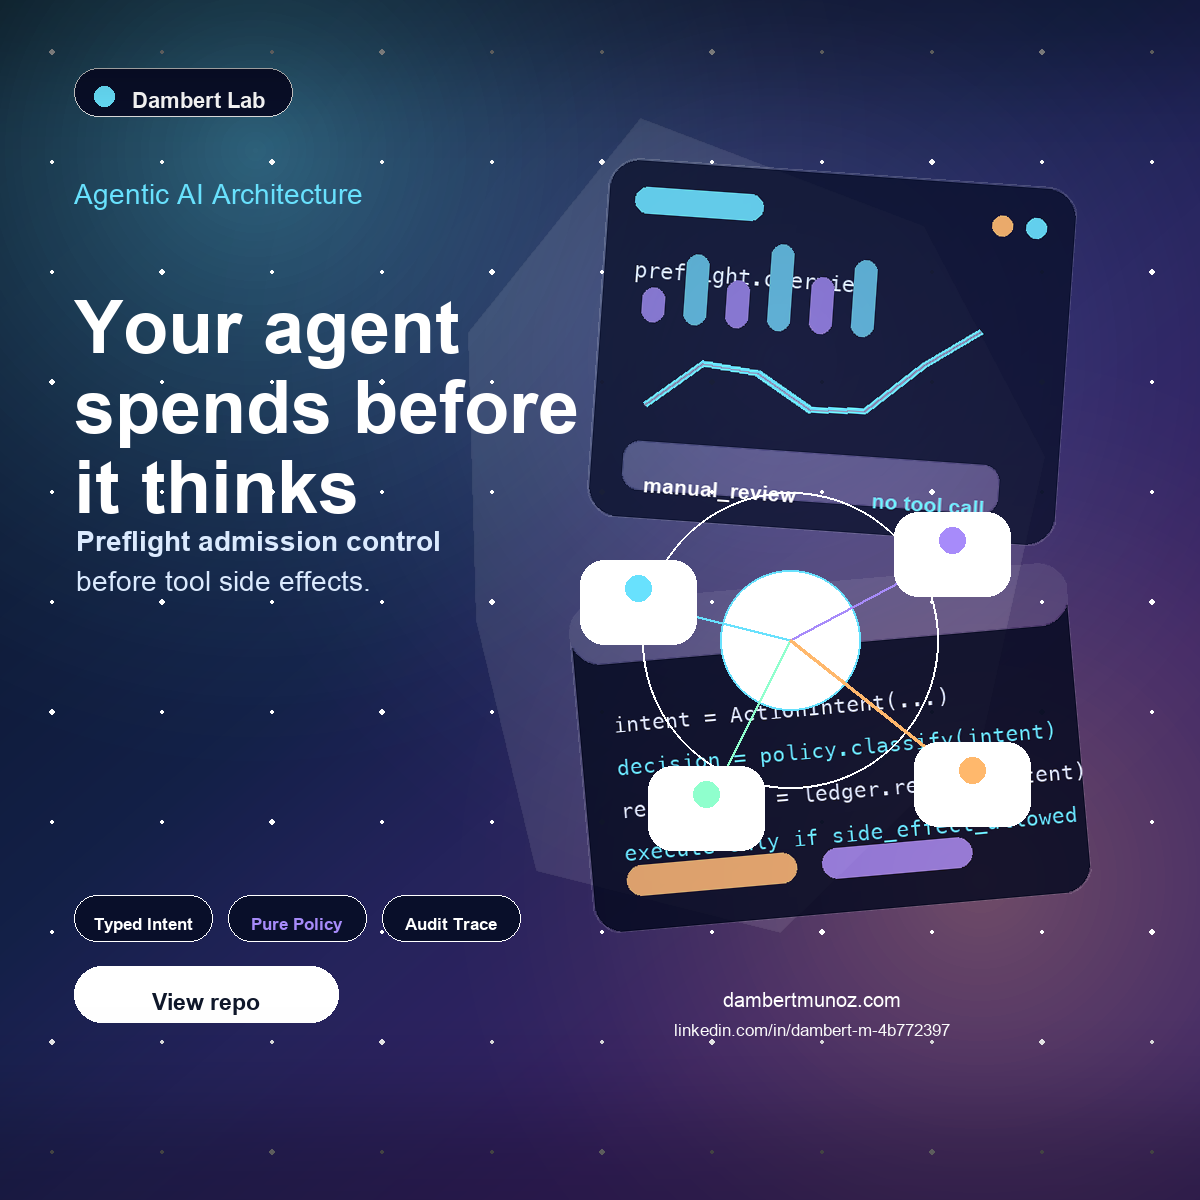
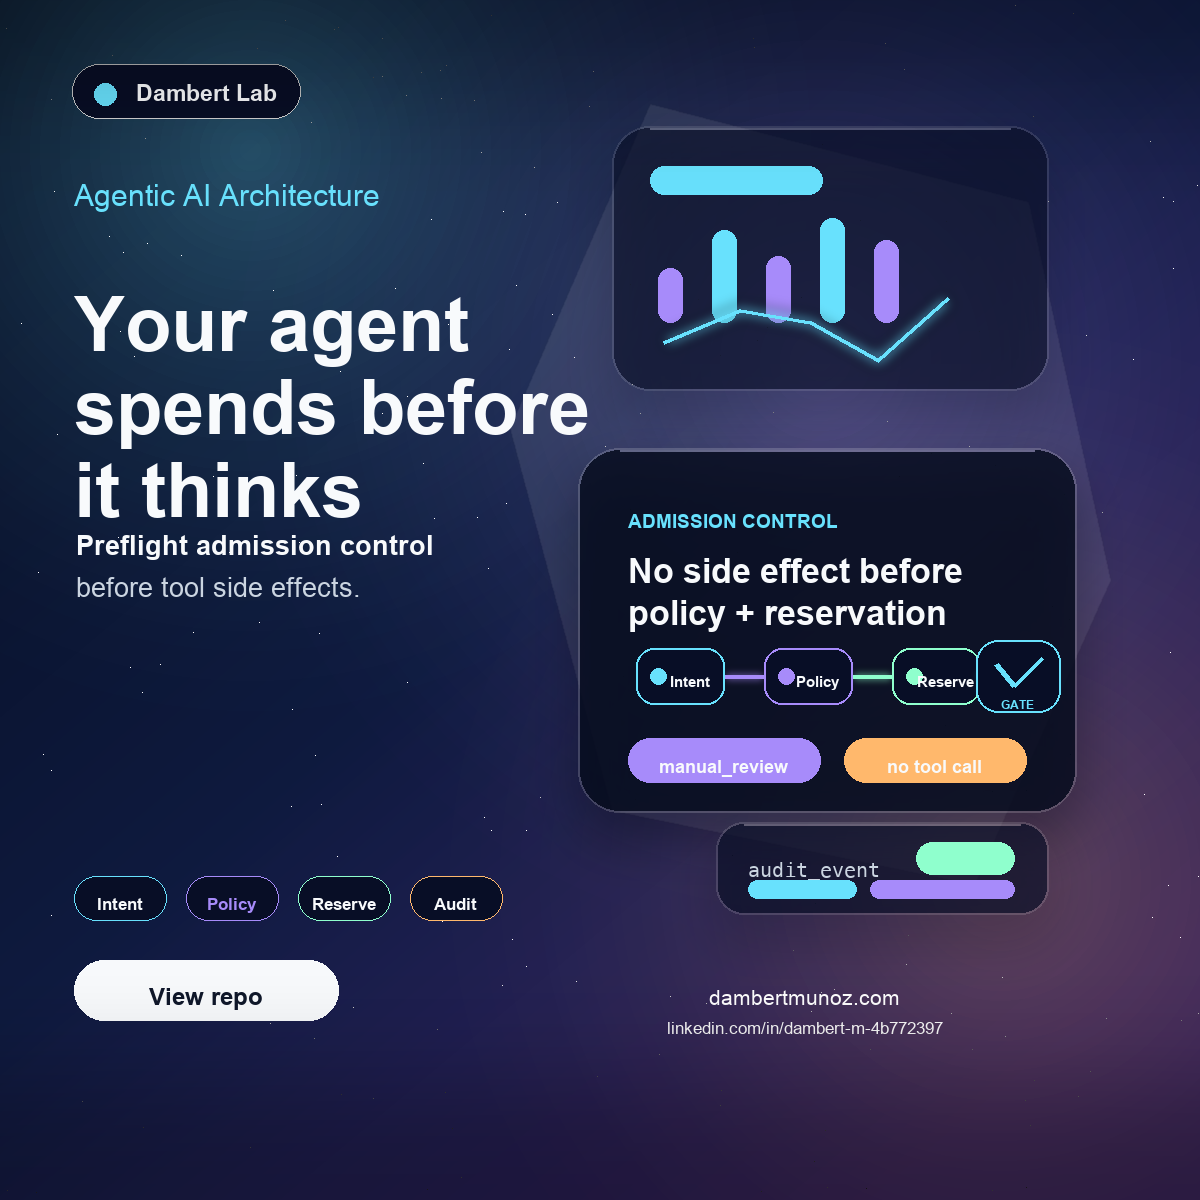
docs: refine premium social card composition

Changed region(s): [[0.0617, 0.0925, 0.925, 0.8633], [0.0617, 0.0308, 0.2467, 0.0925], [0.0617, 0.1542, 0.3083, 0.185]]

diff --git a/scripts/render_social_card.py b/scripts/render_social_card.py
@@ -9,235 +9,208 @@ SIZE = 1200
 OUT = Path("assets")
 OUT.mkdir(exist_ok=True)
 
-BG0 = (7, 17, 31)
-BG1 = (23, 37, 84)
-BG2 = (66, 32, 107)
-WHITE = (255, 255, 255)
-MUTED = (219, 234, 254)
+NAVY = (6, 12, 30)
+INDIGO = (18, 32, 76)
+PLUM = (58, 30, 92)
 CYAN = (104, 225, 253)
 VIOLET = (167, 139, 250)
+AMBER = (255, 184, 108)
 MINT = (143, 255, 205)
-WARM = (255, 184, 108)
-INK = (5, 10, 31)
-PANEL = (9, 15, 42)
+WHITE = (248, 250, 252)
+MUTED = (203, 213, 225)
+PANEL = (8, 14, 38)
 
 
 def font(size: int, bold: bool = False, mono: bool = False) -> ImageFont.FreeTypeFont:
     candidates = []
     if mono:
-        candidates += [
-            "/System/Library/Fonts/Menlo.ttc",
-            "/System/Library/Fonts/Supplemental/Courier New.ttf",
-        ]
+        candidates += ["/System/Library/Fonts/Menlo.ttc", "/System/Library/Fonts/Supplemental/Courier New.ttf"]
     if bold:
-        candidates += [
-            "/System/Library/Fonts/Supplemental/Arial Bold.ttf",
-            "/System/Library/Fonts/Helvetica.ttc",
-        ]
-    candidates += [
-        "/System/Library/Fonts/Supplemental/Arial.ttf",
-        "/System/Library/Fonts/Helvetica.ttc",
-    ]
+        candidates += ["/System/Library/Fonts/Supplemental/Arial Bold.ttf", "/System/Library/Fonts/Helvetica.ttc"]
+    candidates += ["/System/Library/Fonts/Supplemental/Arial.ttf", "/System/Library/Fonts/Helvetica.ttc"]
     for candidate in candidates:
         try:
             return ImageFont.truetype(candidate, size)
         except Exception:
-            continue
+            pass
     return ImageFont.load_default()
 
 
-def lerp(a: int, b: int, t: float) -> int:
-    return int(a + (b - a) * t)
+def text(draw: ImageDraw.ImageDraw, xy, value: str, size: int, *, fill=WHITE, bold=False, mono=False, anchor=None):
+    draw.text(xy, value, font=font(size, bold=bold, mono=mono), fill=fill, anchor=anchor)
 
 
-def gradient_bg() -> Image.Image:
-    img = Image.new("RGB", (SIZE, SIZE), BG0)
+def rounded(draw: ImageDraw.ImageDraw, box, radius: int, fill, outline=None, width: int = 1):
+    draw.rounded_rectangle(box, radius=radius, fill=fill, outline=outline, width=width)
+
+
+def make_background() -> Image.Image:
+    img = Image.new("RGB", (SIZE, SIZE), NAVY)
     px = img.load()
     for y in range(SIZE):
         for x in range(SIZE):
-            tx = x / SIZE
-            ty = y / SIZE
-            t = min(1, max(0, (tx * 0.62 + ty * 0.72)))
-            mid = tuple(lerp(BG0[i], BG1[i], min(1, t * 1.35)) for i in range(3))
-            if t > 0.56:
-                u = (t - 0.56) / 0.44
-                mid = tuple(lerp(mid[i], BG2[i], u * 0.75) for i in range(3))
-            px[x, y] = mid
-    return img
+            nx, ny = x / SIZE, y / SIZE
+            t = min(1.0, nx * 0.52 + ny * 0.62)
+            base = tuple(int(NAVY[i] + (INDIGO[i] - NAVY[i]) * min(1, t * 1.35)) for i in range(3))
+            if t > 0.52:
+                u = (t - 0.52) / 0.48
+                base = tuple(int(base[i] + (PLUM[i] - base[i]) * u * 0.82) for i in range(3))
+            px[x, y] = base
+    return img.convert("RGBA")
 
 
-def add_radial_glow(base: Image.Image, center: tuple[int, int], radius: int, color: tuple[int, int, int], alpha: int) -> None:
-    overlay = Image.new("RGBA", base.size, (0, 0, 0, 0))
-    d = ImageDraw.Draw(overlay)
-    cx, cy = center
-    for r in range(radius, 0, -8):
-        a = int(alpha * (1 - r / radius) ** 1.6)
+def radial_glow(base: Image.Image, cx: int, cy: int, radius: int, color, alpha: int):
+    layer = Image.new("RGBA", base.size, (0, 0, 0, 0))
+    d = ImageDraw.Draw(layer)
+    for r in range(radius, 0, -10):
+        a = int(alpha * (1 - r / radius) ** 1.8)
         d.ellipse((cx - r, cy - r, cx + r, cy + r), fill=(*color, a))
-    base.alpha_composite(overlay)
+    base.alpha_composite(layer)
 
 
-def rounded(d: ImageDraw.ImageDraw, box, radius, fill, outline=None, width=1):
-    d.rounded_rectangle(box, radius=radius, fill=fill, outline=outline, width=width)
+def shadowed_panel(base: Image.Image, box, radius: int = 34, fill=(8, 14, 38, 192), outline=(255, 255, 255, 42), shadow_alpha=85):
+    x1, y1, x2, y2 = box
+    shadow = Image.new("RGBA", base.size, (0, 0, 0, 0))
+    sd = ImageDraw.Draw(shadow)
+    sd.rounded_rectangle((x1, y1 + 26, x2, y2 + 26), radius=radius, fill=(0, 6, 22, shadow_alpha))
+    shadow = shadow.filter(ImageFilter.GaussianBlur(24))
+    base.alpha_composite(shadow)
 
-
-def text(d: ImageDraw.ImageDraw, xy, s, size, fill=WHITE, bold=False, mono=False, anchor=None):
-    d.text(xy, s, font=font(size, bold=bold, mono=mono), fill=fill, anchor=anchor)
-
-
-def draw_glass_card(base: Image.Image, box, radius=34, fill=(9, 15, 42, 168), outline=(255, 255, 255, 38), shadow=True):
-    if shadow:
-        shadow_layer = Image.new("RGBA", base.size, (0, 0, 0, 0))
-        sd = ImageDraw.Draw(shadow_layer)
-        sx1, sy1, sx2, sy2 = box
-        sd.rounded_rectangle((sx1, sy1 + 24, sx2, sy2 + 24), radius=radius, fill=(0, 8, 32, 92))
-        shadow_layer = shadow_layer.filter(ImageFilter.GaussianBlur(24))
-        base.alpha_composite(shadow_layer)
     layer = Image.new("RGBA", base.size, (0, 0, 0, 0))
     d = ImageDraw.Draw(layer)
     d.rounded_rectangle(box, radius=radius, fill=fill, outline=outline, width=2)
-    x1, y1, x2, _ = box
-    d.line((x1 + radius, y1 + 1, x2 - radius, y1 + 1), fill=(255, 255, 255, 46), width=2)
+    d.line((x1 + radius, y1 + 2, x2 - radius, y1 + 2), fill=(255, 255, 255, 54), width=2)
     base.alpha_composite(layer)
 
 
-def draw_blob(base: Image.Image) -> None:
-    layer = Image.new("RGBA", base.size, (0, 0, 0, 0))
-    d = ImageDraw.Draw(layer)
-    points = [
-        (640, 118), (923, 226), (1044, 456), (982, 735),
-        (780, 932), (536, 870), (476, 620), (468, 332),
-    ]
-    d.polygon(points, fill=(255, 255, 255, 24), outline=(255, 255, 255, 32))
-    layer = layer.filter(ImageFilter.GaussianBlur(0.6))
-    base.alpha_composite(layer)
-
-
-def draw_dotted_grid(base: Image.Image) -> None:
+def draw_noise_and_grid(base: Image.Image):
     d = ImageDraw.Draw(base)
-    random.seed(9)
-    for row in range(11):
-        for col in range(11):
-            x = 52 + col * 110
-            y = 52 + row * 110
-            r = 2.4 if (row + col) % 3 == 0 else 1.3
-            a = 42 if (row + col) % 3 == 0 else 26
-            d.ellipse((x - r, y - r, x + r, y + r), fill=(255, 255, 255, a))
+    random.seed(21)
+    # Premium micro texture only. No visible white grid: it made the card feel cheap.
+    for _ in range(220):
+        x = random.randrange(0, SIZE)
+        y = random.randrange(0, SIZE)
+        a = random.randrange(8, 24)
+        d.point((x, y), fill=(255, 255, 255, a))
+    # No visible grid. Only sparse micro speckles for depth.
 
 
-def draw_dashboard(base: Image.Image, x: int, y: int, rotate: float = -4) -> None:
-    card = Image.new("RGBA", (470, 360), (0, 0, 0, 0))
-    d = ImageDraw.Draw(card)
-    d.rounded_rectangle((0, 0, 470, 360), radius=32, fill=(9, 15, 42, 198), outline=(255, 255, 255, 42), width=2)
-    d.rounded_rectangle((28, 28, 156, 54), radius=13, fill=(*CYAN, 218))
-    d.ellipse((386, 32, 406, 52), fill=(*WARM, 230))
-    d.ellipse((420, 32, 440, 52), fill=(*CYAN, 230))
-    text(d, (32, 98), "preflight.overview", 22, fill=(219, 234, 254), mono=True)
-    bars = [0.35, 0.72, 0.48, 0.88, 0.58, 0.78]
-    for i, h in enumerate(bars):
-        bx = 42 + i * 42
-        bh = int(98 * h)
-        bar_color = CYAN if i % 2 else VIOLET
-        d.rounded_rectangle((bx, 162 - bh, bx + 22, 162), radius=11, fill=(*bar_color, 165))
-    pts = []
-    for i in range(7):
-        px = 52 + i * 55
-        py = 245 - math.sin(i * 1.3) * 36 - i * 10
-        pts.append((px, py))
-    d.line(pts, fill=CYAN, width=7, joint="curve")
-    d.line(pts, fill=(255, 255, 255, 100), width=2)
-    d.rounded_rectangle((34, 282, 410, 330), radius=16, fill=(255, 255, 255, 20))
-    text(d, (56, 313), "manual_review", 21, fill=WHITE, bold=True)
-    text(d, (285, 313), "no tool call", 21, fill=CYAN, bold=True)
-    card = card.rotate(rotate, resample=Image.Resampling.BICUBIC, expand=True)
-    base.alpha_composite(card, (x, y))
-
-
-def draw_code_card(base: Image.Image, x: int, y: int, rotate: float = 5) -> None:
-    card = Image.new("RGBA", (500, 332), (0, 0, 0, 0))
-    d = ImageDraw.Draw(card)
-    d.rounded_rectangle((0, 0, 500, 332), radius=30, fill=(5, 10, 31, 210), outline=(255, 255, 255, 38), width=2)
-    d.rounded_rectangle((0, 0, 500, 62), radius=30, fill=(255, 255, 255, 20))
-    for i, c in enumerate([(255, 123, 123), (255, 209, 102), (124, 247, 199)]):
-        d.ellipse((36 + i * 28, 24, 52 + i * 28, 40), fill=c)
-    lines = [
-        "intent = ActionIntent(...) ",
-        "decision = policy.classify(intent)",
-        "reservation = ledger.reserve(intent)",
-        "execute only if side_effect_allowed",
-    ]
-    for i, line in enumerate(lines):
-        text(d, (36, 112 + i * 43), line, 21, fill=CYAN if i in (1, 3) else (224, 231, 255), mono=True)
-    d.rounded_rectangle((36, 266, 206, 296), radius=15, fill=(*WARM, 205))
-    d.rounded_rectangle((232, 266, 382, 296), radius=15, fill=(*VIOLET, 190))
-    card = card.rotate(rotate, resample=Image.Resampling.BICUBIC, expand=True)
-    base.alpha_composite(card, (x, y))
-
-
-def draw_orbit(base: Image.Image, cx: int, cy: int) -> None:
+def draw_left_copy(base: Image.Image):
     d = ImageDraw.Draw(base)
-    d.ellipse((cx - 148, cy - 148, cx + 148, cy + 148), outline=(255, 255, 255, 40), width=2)
-    d.ellipse((cx - 70, cy - 70, cx + 70, cy + 70), fill=(255, 255, 255, 20), outline=(*CYAN, 130), width=2)
-    text(d, (cx, cy + 9), "GATE", 28, fill=WHITE, bold=True, anchor="mm")
-    labels = [("Intent", -210, -80, CYAN), ("Policy", 104, -128, VIOLET), ("Reserve", -142, 126, MINT), ("Audit", 124, 102, WARM)]
-    for label, dx, dy, color in labels:
-        x = cx + dx
-        y = cy + dy
-        d.line((cx, cy, x + 58, y + 42), fill=(*color, 90), width=3)
-        d.rounded_rectangle((x, y, x + 116, y + 84), radius=24, fill=(255, 255, 255, 28), outline=(255, 255, 255, 48), width=1)
-        d.ellipse((x + 45, y + 15, x + 71, y + 41), fill=(*color, 220))
-        text(d, (x + 58, y + 63), label, 19, fill=WHITE, bold=True, anchor="mm")
+    rounded(d, (72, 64, 300, 118), 27, (8, 14, 38, 176), (255, 255, 255, 58), 1)
+    d.ellipse((94, 83, 116, 105), fill=CYAN)
+    text(d, (136, 80), "Dambert Lab", 23, bold=True)
+
+    text(d, (74, 178), "Agentic AI Architecture", 30, fill=CYAN)
+    text(d, (74, 282), "Your agent", 76, bold=True)
+    text(d, (74, 365), "spends before", 76, bold=True)
+    text(d, (74, 448), "it thinks", 76, bold=True)
+
+    text(d, (76, 530), "Preflight admission control", 27, fill=WHITE, bold=True)
+    text(d, (76, 572), "before tool side effects.", 27, fill=MUTED)
+
+    # Premium chips without the previous white-circle look.
+    chips = [("Intent", CYAN), ("Policy", VIOLET), ("Reserve", MINT), ("Audit", AMBER)]
+    for i, (label, color) in enumerate(chips):
+        x = 74 + i * 112
+        rounded(d, (x, 876, x + 92, 920), 22, (8, 14, 38, 166), (*color, 136), 1)
+        text(d, (x + 46, 904), label, 17, fill=WHITE if i != 1 else color, bold=True, anchor="mm")
+
+    rounded(d, (74, 960, 338, 1020), 30, WHITE, None, 1)
+    text(d, (206, 997), "View repo", 24, fill=(15, 23, 42), bold=True, anchor="mm")
+    text(d, (805, 997), "dambertmunoz.com", 21, fill=(255, 255, 255, 186), anchor="mm")
+    text(d, (805, 1028), "linkedin.com/in/dambert-m-4b772397", 17, fill=(255, 255, 255, 142), anchor="mm")
 
 
-def draw_stat_pills(base: Image.Image) -> None:
+def line_glow(base: Image.Image, points, color, width=5, glow=16):
+    glow_layer = Image.new("RGBA", base.size, (0, 0, 0, 0))
+    gd = ImageDraw.Draw(glow_layer)
+    gd.line(points, fill=(*color, 120), width=width + glow, joint="curve")
+    glow_layer = glow_layer.filter(ImageFilter.GaussianBlur(glow // 2))
+    base.alpha_composite(glow_layer)
     d = ImageDraw.Draw(base)
-    stats = [("Typed Intent", CYAN), ("Pure Policy", VIOLET), ("Audit Trace", MINT)]
-    for i, (label, color) in enumerate(stats):
-        x = 74 + i * 154
-        d.rounded_rectangle((x, 895, x + 138, 941), radius=23, fill=(9, 15, 42, 156), outline=(255, 255, 255, 46), width=1)
-        text(d, (x + 69, 924), label, 17, fill=color if i == 1 else WHITE, bold=True, anchor="mm")
+    d.line(points, fill=(*color, 220), width=width, joint="curve")
 
 
-def draw_title(base: Image.Image) -> None:
+def draw_right_art(base: Image.Image):
     d = ImageDraw.Draw(base)
-    d.rounded_rectangle((74, 68, 292, 116), radius=24, fill=(9, 15, 42, 150), outline=(255, 255, 255, 56), width=1)
-    d.ellipse((94, 86, 114, 106), fill=CYAN)
-    text(d, (132, 88), "Dambert Lab", 22, fill=WHITE, bold=True)
-    text(d, (74, 178), "Agentic AI Architecture", 28, fill=CYAN, bold=False)
-    text(d, (74, 286), "Your agent", 74, fill=WHITE, bold=True)
-    text(d, (74, 366), "spends before", 74, fill=WHITE, bold=True)
-    text(d, (74, 446), "it thinks", 74, fill=WHITE, bold=True)
-    text(d, (76, 525), "Preflight admission control", 28, fill=MUTED, bold=True)
-    text(d, (76, 565), "before tool side effects.", 28, fill=MUTED)
-    d.rounded_rectangle((74, 966, 338, 1022), radius=28, fill=WHITE)
-    text(d, (206, 1002), "View repo", 23, fill=(15, 23, 42), bold=True, anchor="mm")
-    text(d, (812, 1000), "dambertmunoz.com", 20, fill=(255, 255, 255, 180), anchor="mm")
-    text(d, (812, 1030), "linkedin.com/in/dambert-m-4b772397", 17, fill=(255, 255, 255, 135), anchor="mm")
+
+    # Abstract brand blob, toned down.
+    blob = Image.new("RGBA", base.size, (0, 0, 0, 0))
+    bd = ImageDraw.Draw(blob)
+    bd.polygon([(650, 104), (1028, 202), (1110, 580), (974, 884), (612, 810), (510, 428)], fill=(255, 255, 255, 22), outline=(255, 255, 255, 30))
+    blob = blob.filter(ImageFilter.GaussianBlur(0.8))
+    base.alpha_composite(blob)
+
+    # Back card.
+    shadowed_panel(base, (612, 126, 1048, 390), radius=38, fill=(8, 14, 38, 158), outline=(255, 255, 255, 28), shadow_alpha=50)
+    rounded(d, (650, 166, 822, 194), 14, (*CYAN, 220))
+    for i, h in enumerate([54, 92, 66, 104, 82]):
+        x = 658 + i * 54
+        rounded(d, (x, 322 - h, x + 24, 322), 12, CYAN if i % 2 else VIOLET, None, 1)
+    line_glow(base, [(664, 342), (740, 310), (810, 322), (878, 360), (948, 298)], CYAN, width=4, glow=12)
+
+    # Main gate card, no white orbit/circle connectors.
+    shadowed_panel(base, (578, 448, 1076, 812), radius=42, fill=(6, 12, 30, 214), outline=(255, 255, 255, 44), shadow_alpha=92)
+    text(d, (628, 510), "ADMISSION CONTROL", 19, fill=CYAN, bold=True)
+    text(d, (628, 552), "No side effect before", 34, fill=WHITE, bold=True)
+    text(d, (628, 594), "policy + reservation", 34, fill=WHITE, bold=True)
+
+    # Clean rail.
+    rail_y = 676
+    start_x = 636
+    steps = [("Intent", CYAN), ("Policy", VIOLET), ("Reserve", MINT)]
+    for i in range(2):
+        x1 = start_x + i * 128 + 88
+        x2 = start_x + (i + 1) * 128
+        line_glow(base, [(x1, rail_y), (x2, rail_y)], steps[i + 1][1], width=4, glow=8)
+    for i, (label, color) in enumerate(steps):
+        x = start_x + i * 128
+        rounded(d, (x, rail_y - 28, x + 88, rail_y + 28), 18, (8, 14, 38, 205), (*color, 170), 2)
+        d.ellipse((x + 14, rail_y - 8, x + 30, rail_y + 8), fill=color)
+        text(d, (x + 54, rail_y + 6), label, 15, fill=WHITE, bold=True, anchor="mm")
+
+    gate_x = 1030
+    line_glow(base, [(start_x + 2 * 128 + 88, rail_y), (gate_x - 54, rail_y)], CYAN, width=4, glow=8)
+    rounded(d, (gate_x - 54, rail_y - 36, gate_x + 30, rail_y + 36), 22, (8, 14, 38, 215), CYAN, 2)
+    d.line((gate_x - 34, rail_y - 12, gate_x - 16, rail_y + 10, gate_x + 12, rail_y - 18), fill=CYAN, width=5)
+    text(d, (gate_x - 12, rail_y + 29), "GATE", 12, fill=CYAN, bold=True, anchor="mm")
+
+    # Outcome strips, editorial not diagram literal.
+    rounded(d, (628, 738, 820, 782), 22, (167, 139, 250, 42), (167, 139, 250, 130), 1)
+    text(d, (724, 766), "manual_review", 18, fill=WHITE, bold=True, anchor="mm")
+    rounded(d, (844, 738, 1026, 782), 22, (255, 184, 108, 38), (255, 184, 108, 130), 1)
+    text(d, (935, 766), "no tool call", 18, fill=WHITE, bold=True, anchor="mm")
+
+    # Small audit card, bottom-right.
+    shadowed_panel(base, (716, 822, 1048, 914), radius=28, fill=(8, 14, 38, 170), outline=(255, 255, 255, 34), shadow_alpha=45)
+    text(d, (748, 858), "audit_event", 20, fill=MUTED, mono=True)
+    rounded(d, (916, 842, 1014, 874), 16, (143, 255, 205, 38), (*MINT, 130), 1)
+    text(d, (965, 864), "HELD", 15, fill=MINT, bold=True, anchor="mm")
+    rounded(d, (748, 880, 856, 898), 9, (*CYAN, 180), None, 1)
+    rounded(d, (870, 880, 1014, 898), 9, (*VIOLET, 160), None, 1)
 
 
 def render() -> None:
-    base = gradient_bg().convert("RGBA")
-    add_radial_glow(base, (255, 150), 650, CYAN, 96)
-    add_radial_glow(base, (980, 880), 560, WARM, 74)
-    add_radial_glow(base, (780, 360), 600, VIOLET, 82)
-    draw_dotted_grid(base)
-    draw_blob(base)
-    draw_dashboard(base, 585, 156, -4)
-    draw_code_card(base, 566, 560, 5)
-    draw_orbit(base, 790, 640)
-    draw_title(base)
-    draw_stat_pills(base)
+    base = make_background()
+    radial_glow(base, 250, 150, 620, CYAN, 78)
+    radial_glow(base, 1000, 880, 620, AMBER, 64)
+    radial_glow(base, 820, 360, 640, VIOLET, 84)
+    draw_noise_and_grid(base)
+    draw_right_art(base)
+    draw_left_copy(base)
 
-    # Add a subtle final vignette.
+    # Vignette for premium focus.
     vignette = Image.new("RGBA", base.size, (0, 0, 0, 0))
     vd = ImageDraw.Draw(vignette)
-    vd.rectangle((0, 0, SIZE, 70), fill=(0, 0, 0, 60))
-    vd.rectangle((0, SIZE - 90, SIZE, SIZE), fill=(0, 0, 0, 70))
-    vignette = vignette.filter(ImageFilter.GaussianBlur(45))
+    vd.rectangle((0, 0, SIZE, 95), fill=(0, 0, 0, 46))
+    vd.rectangle((0, SIZE - 120, SIZE, SIZE), fill=(0, 0, 0, 72))
+    vignette = vignette.filter(ImageFilter.GaussianBlur(52))
     base.alpha_composite(vignette)
 
-    png = OUT / "preflight-budget-gate-social-card.png"
-    base.convert("RGB").save(png, quality=96)
-    print(png)
+    path = OUT / "preflight-budget-gate-social-card.png"
+    base.convert("RGB").save(path, quality=96)
+    print(path)
 
 
 if __name__ == "__main__":